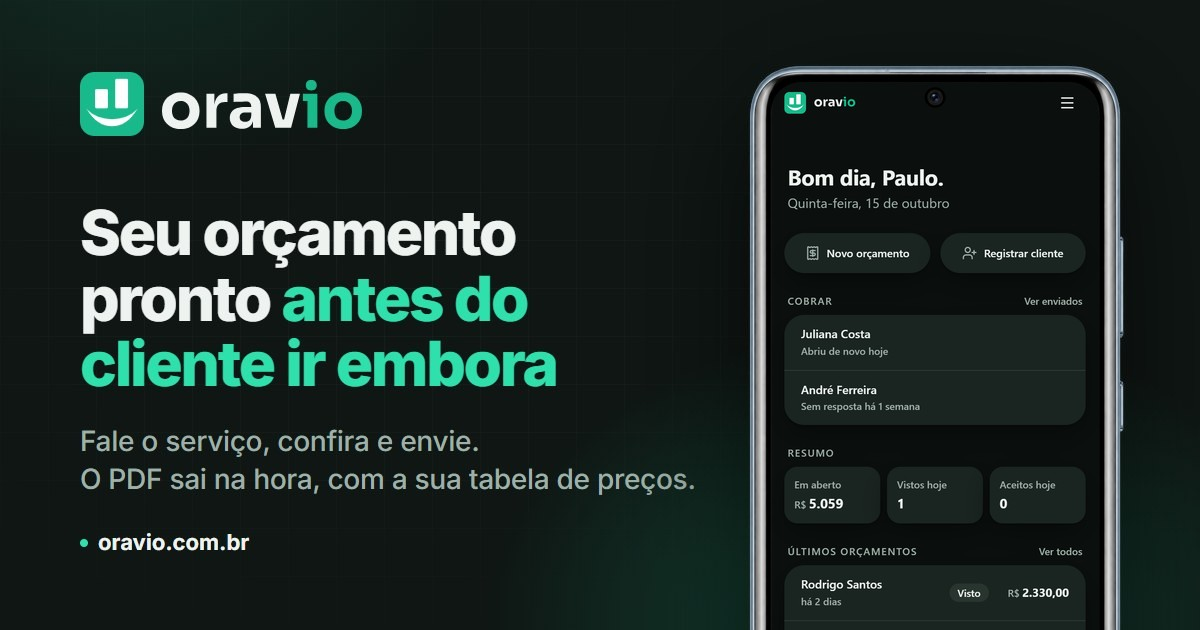
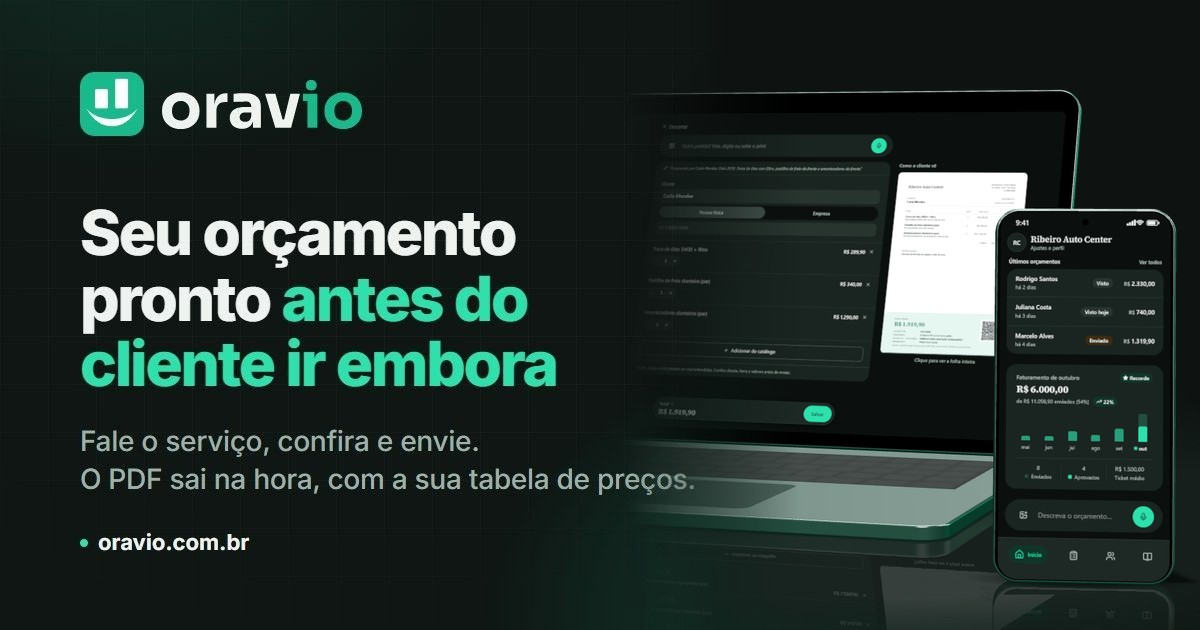
Capa do link com o app atual (celular e notebook); og:image sobe para ?v=4

diff --git a/index.html b/index.html
@@ -17,11 +17,11 @@
 <meta property="og:type" content="website">
 <meta property="og:locale" content="pt_BR">
 <meta property="og:site_name" content="Oravio">
-<meta property="og:image" content="https://oravio.com.br/og-oravio.jpg?v=2">
+<meta property="og:image" content="https://oravio.com.br/og-oravio.jpg?v=4">
 <meta property="og:image:type" content="image/jpeg">
 <meta property="og:image:width" content="1200">
 <meta property="og:image:height" content="630">
-<meta property="og:image:alt" content="Oravio: seu orçamento pronto antes do cliente ir embora. Ao lado, a tela inicial do app no celular">
+<meta property="og:image:alt" content="Oravio: seu orçamento pronto antes do cliente ir embora. Ao lado, o app no celular e no notebook">
 <meta name="twitter:card" content="summary_large_image">
 <link rel="canonical" href="https://oravio.com.br/">
 <!-- Dados estruturados: ajudam o Google a entender "Oravio" como marca (não só como
